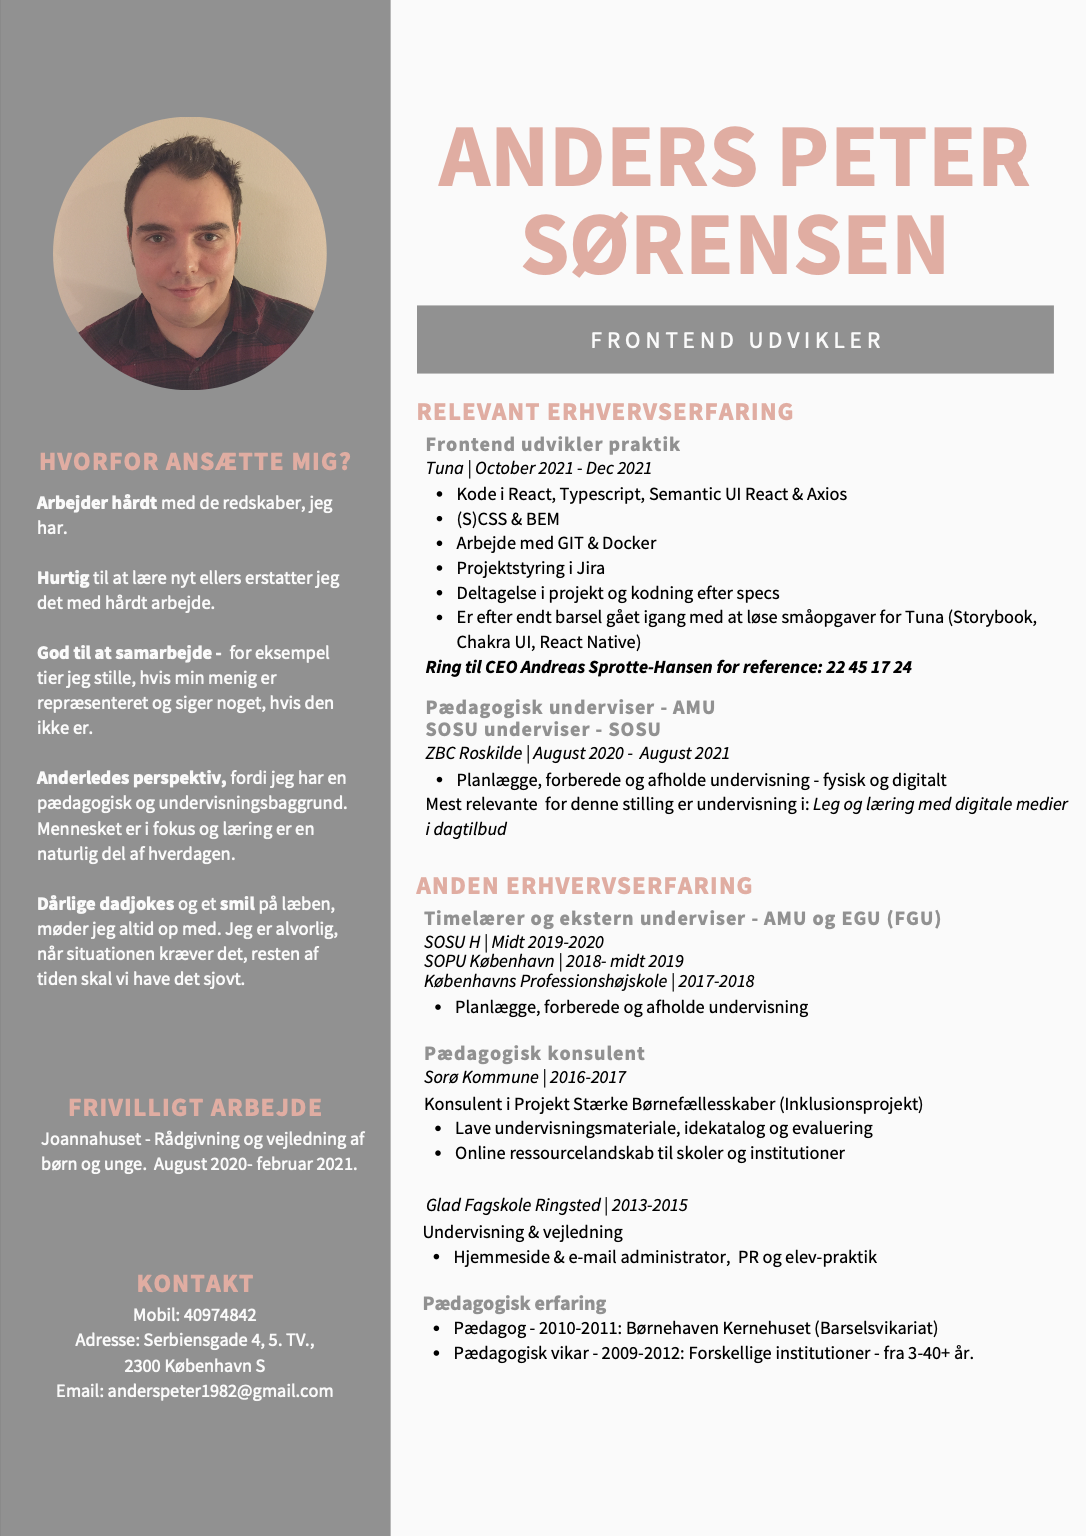
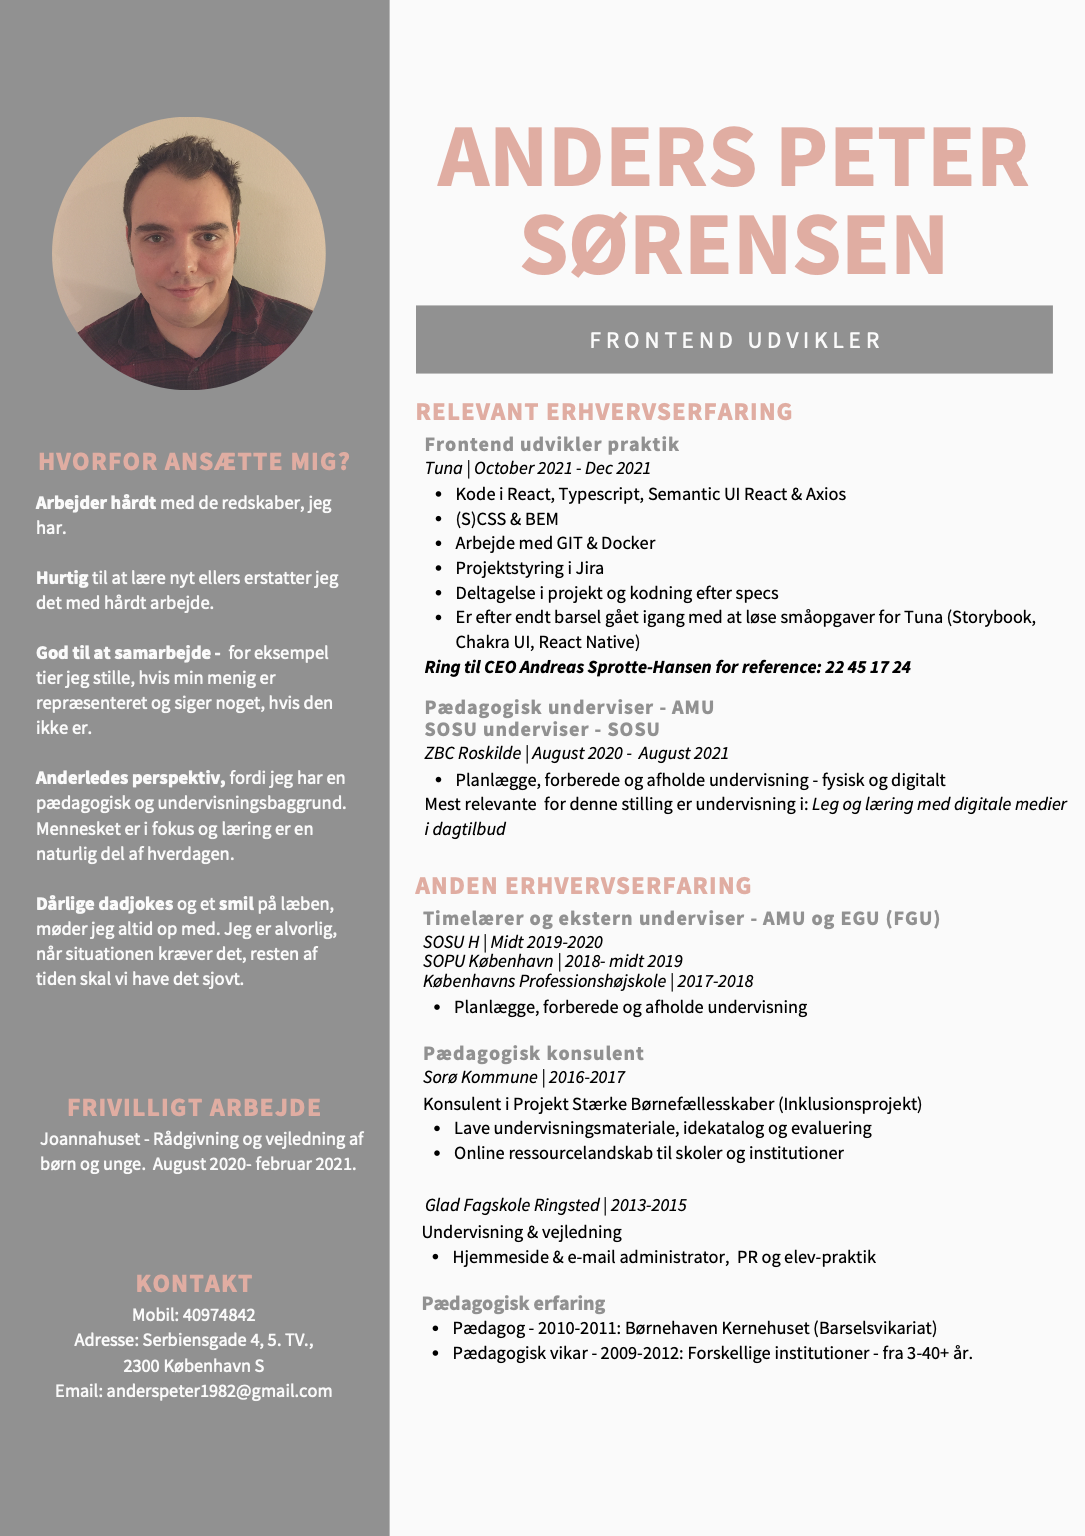
Website update
- Current project updated - MERN stack
- Mern stack img
- small fix of cv pixture.

diff --git a/currentProject.html b/currentProject.html
@@ -40,14 +40,14 @@
     </div>
 
 
-    <section id="Markdown Previewer">
+    <section id="The Mern Stack">
       <div class="container mx-auto flex flex-col justify-center border rounded border-transparent drop-shadow-lg bg-cyan-300/50">
 
-          <heading class="text-3xl font-bold flex justify-center drop-shadow-md hover:drop-shadow-xl">Markdown Previewer</heading>
-          <p class="flex justify-center text-center">Coal: A part of the Freecodecamp certification <br/> Start: 01.10.2022 <br/>End: 03.10.2022 <br/>Things learned: Markdown previewer, HTML, Bootstrap, CDN's</p>
+          <heading class="text-3xl font-bold flex justify-center drop-shadow-md hover:drop-shadow-xl">The MERN STACK</heading>
+          <p class="flex justify-center text-center">Coal: Create app with MERN STACK - app is an old idea: QUACKLE - a question of the day app<br/> Start: 01.11.2022 <br/>End: Not yet<br/>Basics of MERN - REDUX toolbox - Bug fixes</p>
 
   <div class="container mx-auto flex flex-col justify-center pt-2">
-    <img class="" id="" src="" />
+    <img class="" id="" src="img/mern-stack.png" />
   </div>
 </section>
 
@@ -68,8 +68,20 @@
     </div>
 </section>
 
-<div class="pb-60"></div>
+    <div class="pb-60"></div>
 
+    <section id="Markdown Previewer">
+      <div class="container mx-auto flex flex-col justify-center border rounded border-transparent drop-shadow-lg bg-cyan-300/50">
+
+          <heading class="text-3xl font-bold flex justify-center drop-shadow-md hover:drop-shadow-xl">Markdown Previewer</heading>
+          <p class="flex justify-center text-center">Coal: A part of the Freecodecamp certification <br/> Start: 01.10.2022 <br/>End: 03.10.2022 <br/>Things learned: Markdown previewer, HTML, Bootstrap, CDN's</p>
+
+    <div class="container mx-auto flex flex-col justify-center pt-2">
+    <img class="" id="" src="img/markdownPreviewer.png" />
+    </div>
+    </section>
+
+    <div class="pb-60"></div>
 
     <section id="Google Analytics">
         <div class="container mx-auto flex flex-col justify-center border rounded border-transparent drop-shadow-lg bg-cyan-300/50">

diff --git a/index.html b/index.html
@@ -63,7 +63,7 @@
                         </p>
                         <p class="mix-blend-color-dodge text-pink-300">The MERN stack</p> 
                         <a class="flex justify-center pt-2" href="currentProject.html" target="_blank">
-                            <img id="shopifySmallPic" src="img/mern-stack.png">
+                            <img id="shopifySmallPic" src="img/mern-stack-sm.png">
                         </a>
                         <div class="flex justify-center text-center pt-8">
 
